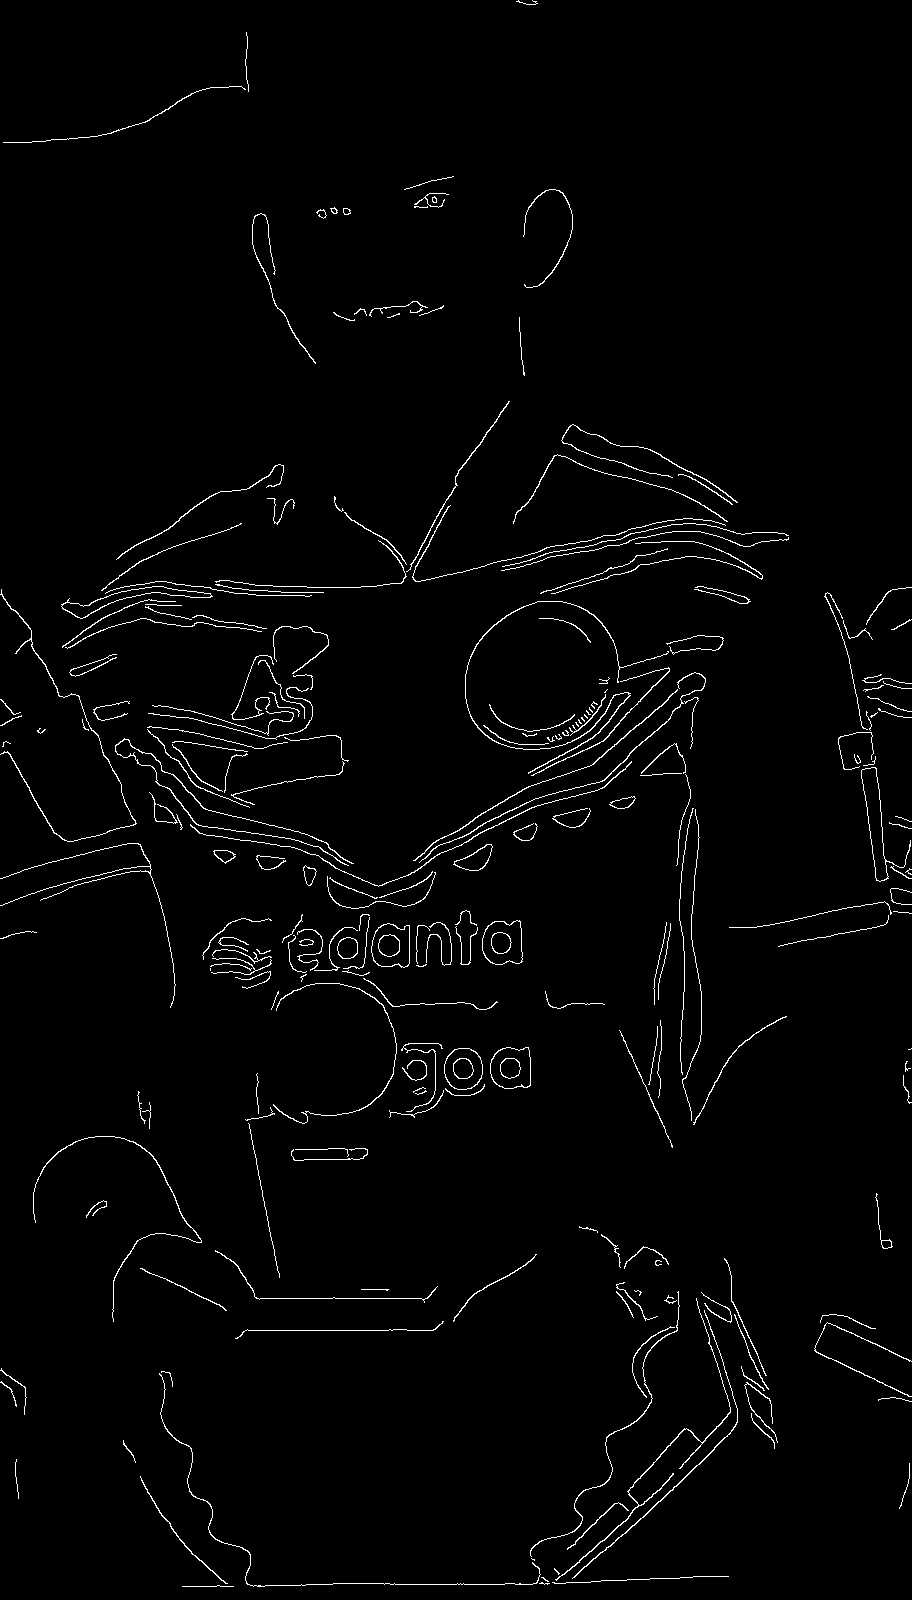
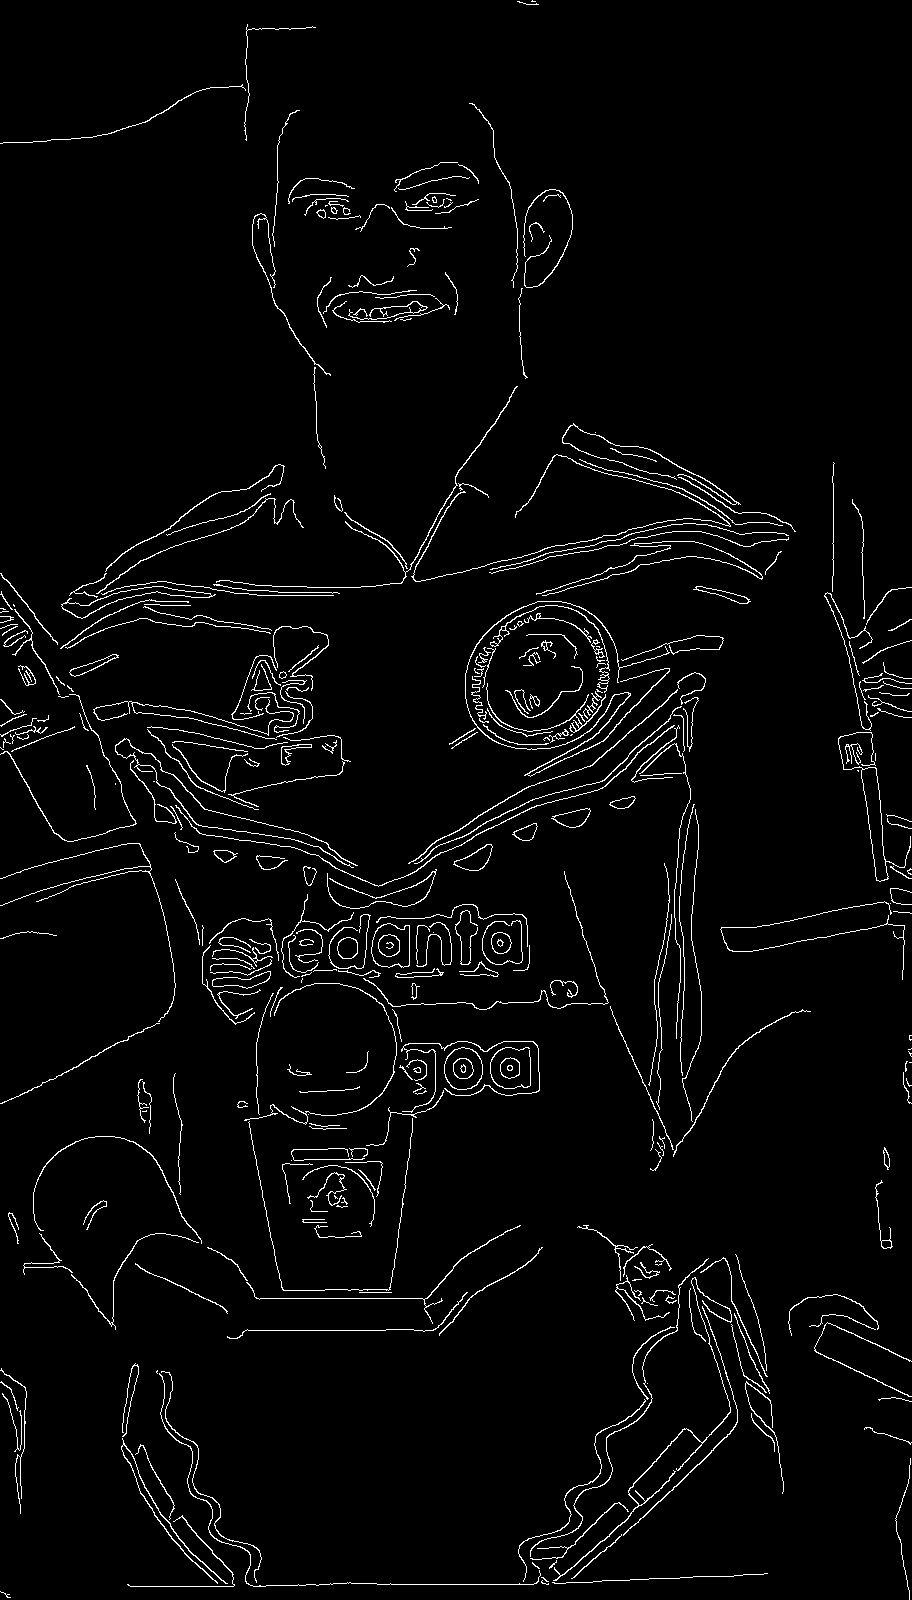
Close to end

diff --git a/app.py b/app.py
@@ -40,29 +40,63 @@ def allowed_file(filename):
     return '.' in filename and filename.rsplit('.', 1)[1].lower() in ALLOWED_EXTENSIONS
 
 def preprocess_image(image_path):
+    # Read image and resize if too large
     img = cv2.imread(image_path)
+    max_dimension = 3000
+    height, width = img.shape[:2]
+    if max(height, width) > max_dimension:
+        scale = max_dimension / max(height, width)
+        img = cv2.resize(img, None, fx=scale, fy=scale)
+
     # Convert to grayscale
     gray = cv2.cvtColor(img, cv2.COLOR_BGR2GRAY)
     gray_path = image_path.replace('.', '_gray.')
     cv2.imwrite(gray_path, gray)
     
-    # Apply Gaussian blur
-    blurred = cv2.GaussianBlur(gray, (5, 5), 0)
-    blur_path = image_path.replace('.', '_blur.')
-    cv2.imwrite(blur_path, blurred)
+    # Denoise image
+    denoised = cv2.fastNlMeansDenoising(gray)
     
-    # Edge detection
-    canny = cv2.Canny(blurred, 100, 200)
+    # Apply adaptive histogram equalization
+    clahe = cv2.createCLAHE(clipLimit=3.0, tileGridSize=(8,8))
+    enhanced = clahe.apply(denoised)
+    
+    # Apply bilateral filter for edge preservation
+    bilateral = cv2.bilateralFilter(enhanced, 9, 75, 75)
+    blur_path = image_path.replace('.', '_blur.')
+    cv2.imwrite(blur_path, bilateral)
+    
+    # Edge detection with Canny
+    canny = cv2.Canny(bilateral, 50, 150)
     edge_path = image_path.replace('.', '_edge.')
     cv2.imwrite(edge_path, canny)
     
-    # Thresholding
-    thresh = cv2.adaptiveThreshold(
-        blurred, 255, cv2.ADAPTIVE_THRESH_GAUSSIAN_C,
-        cv2.THRESH_BINARY, 11, 2
-    )
+    # Deskew image if needed
+    coords = np.column_stack(np.where(canny > 0))
+    if len(coords) > 0:
+        angle = cv2.minAreaRect(coords)[-1]
+        if angle < -45:
+            angle = 90 + angle
+        if abs(angle) > 0.5:
+            (h, w) = enhanced.shape[:2]
+            center = (w // 2, h // 2)
+            M = cv2.getRotationMatrix2D(center, angle, 1.0)
+            enhanced = cv2.warpAffine(enhanced, M, (w, h), flags=cv2.INTER_CUBIC, borderMode=cv2.BORDER_REPLICATE)
+    
+    # Advanced adaptive thresholding
+    block_size = 35
+    C = 10
+    thresh = cv2.adaptiveThreshold(enhanced, 255, cv2.ADAPTIVE_THRESH_GAUSSIAN_C, cv2.THRESH_BINARY, block_size, C)
     thresh_path = image_path.replace('.', '_thresh.')
     cv2.imwrite(thresh_path, thresh)
+    
+    # Morphological operations
+    kernel = cv2.getStructuringElement(cv2.MORPH_RECT, (3,3))
+    # Remove noise
+    thresh = cv2.morphologyEx(thresh, cv2.MORPH_CLOSE, kernel)
+    # Connect text components
+    thresh = cv2.morphologyEx(thresh, cv2.MORPH_CLOSE, kernel)
+    # Remove small noise
+    thresh = cv2.morphologyEx(thresh, cv2.MORPH_OPEN, kernel)
     
     return {
         'gray': gray_path,
@@ -72,7 +106,27 @@ def preprocess_image(image_path):
     }, img.shape, thresh
 
 def extract_text_from_image(img_np):
-    return pytesseract.image_to_string(img_np)
+    # Configure Tesseract parameters for maximum accuracy
+    custom_config = r'--oem 3 --psm 6 '
+    custom_config += r'-c tessedit_char_blacklist=§|¦ '
+    custom_config += r'-c textord_heavy_nr=1 '
+    custom_config += r'-c textord_min_linesize=3 '
+    custom_config += r'-c tessedit_enable_dict_correction=1 '
+    custom_config += r'-c tessedit_enable_bigram_correction=1 '
+    custom_config += r'-c tessedit_write_images=true '
+    
+    # Try multiple page segmentation modes
+    psm_modes = [6, 3, 4, 1]
+    text_results = []
+    
+    for psm in psm_modes:
+        config = custom_config + f' --psm {psm}'
+        text = pytesseract.image_to_string(img_np, config=config)
+        if text.strip():
+            text_results.append(text)
+    
+    # Return the longest result or empty string
+    return max(text_results, key=len, default='').strip() if text_results else ''
 
 def refine_text_with_ai(text):
     if not text.strip():
